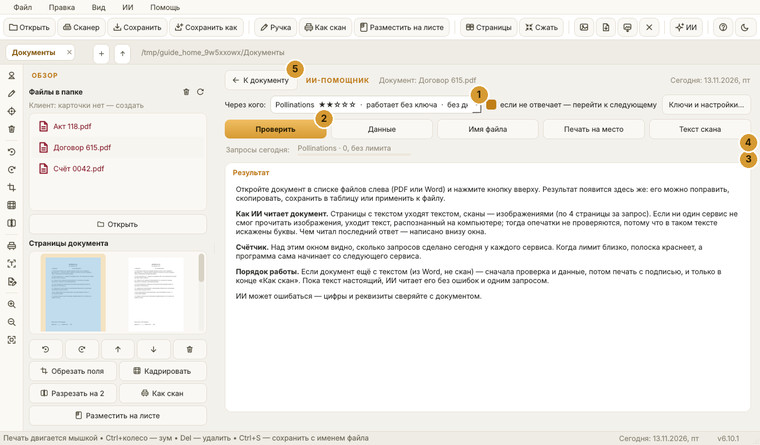
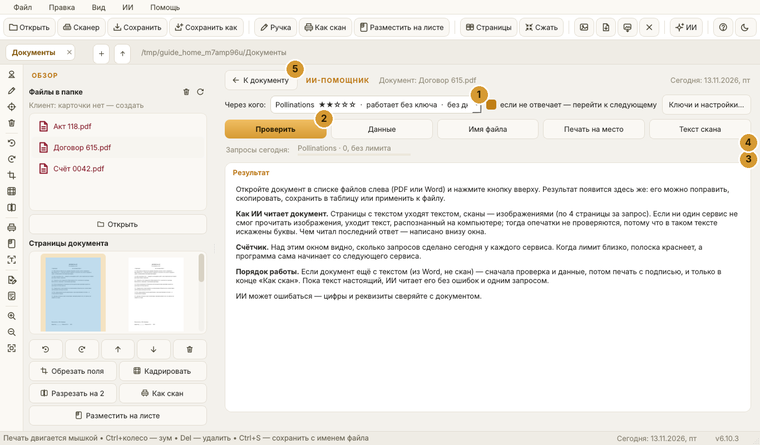
6.10.3: «Разместить на листе» и «Акт осмотра» в боковой полосе значков
Claude-Session: https://claude.ai/code/session_01S2yJaDiaX6YUxFfadFNC79

diff --git a/stamp_studio_canon.py b/stamp_studio_canon.py
@@ -410,12 +410,12 @@ QToolButton#ghost:pressed { background: rgba(214, 154, 51, 0.40); }
 QPushButton#aiact { text-align: left; padding: 6px 12px; }
 QDialog#embedded { background: transparent; }
 QToolBar#tools { background: #171a22; border: none; border-right: 1px solid #262b39; padding: 4px 5px; spacing: 2px; }
-QToolBar#tools QToolButton { min-width: 30px; max-width: 30px; min-height: 28px; max-height: 28px; padding: 0;
+QToolBar#tools QToolButton { min-width: 30px; max-width: 30px; min-height: 25px; max-height: 25px; padding: 0;
     background: transparent; border: 1px solid transparent; border-radius: 8px; }
 QToolBar#tools QToolButton:hover { background: #232735; border-color: #e8b04b; }
 QToolBar#tools QToolButton:checked { background: #3a321c; border-color: #e8b04b; }
 QToolBar#tools QToolButton:disabled { background: transparent; border-color: transparent; }
-QToolBar#tools::separator { background: #2a2f3d; height: 1px; margin: 3px 5px; }
+QToolBar#tools::separator { background: #2a2f3d; height: 1px; margin: 2px 5px; }
 QMenuBar { background: #171a22; border-bottom: 1px solid #262b39; padding: 1px 6px; }
 QMenuBar::item { background: transparent; padding: 4px 12px; border-radius: 6px; color: #c9cddb; }
 QMenuBar::item:selected, QMenuBar::item:pressed { background: #2c3145; color: #e8b04b; }
@@ -485,12 +485,12 @@ QToolButton#ghost:pressed { background: rgba(214, 154, 51, 0.40); }
 QPushButton#aiact { text-align: left; padding: 6px 12px; }
 QDialog#embedded { background: transparent; }
 QToolBar#tools { background: #fbf9f4; border: none; border-right: 1px solid #e6e1d6; padding: 4px 5px; spacing: 2px; }
-QToolBar#tools QToolButton { min-width: 30px; max-width: 30px; min-height: 28px; max-height: 28px; padding: 0;
+QToolBar#tools QToolButton { min-width: 30px; max-width: 30px; min-height: 25px; max-height: 25px; padding: 0;
     background: transparent; border: 1px solid transparent; border-radius: 8px; }
 QToolBar#tools QToolButton:hover { background: #ffffff; border-color: #d69a33; }
 QToolBar#tools QToolButton:checked { background: #fbefd3; border-color: #d69a33; }
 QToolBar#tools QToolButton:disabled { background: transparent; border-color: transparent; }
-QToolBar#tools::separator { background: #e6e1d6; height: 1px; margin: 3px 5px; }
+QToolBar#tools::separator { background: #e6e1d6; height: 1px; margin: 2px 5px; }
 QMenuBar { background: #fbf9f4; border-bottom: 1px solid #e6e1d6; padding: 1px 6px; }
 QMenuBar::item { background: transparent; padding: 4px 12px; border-radius: 6px; color: #4a4636; }
 QMenuBar::item:selected, QMenuBar::item:pressed { background: #f4e3c2; color: #6b4a00; }
@@ -528,7 +528,7 @@ QProgressBar::chunk { background: #d69a33; border-radius: 3px; }
 SETTINGS_JSON = os.path.join(LIB_DIR, "settings.json")
 
 # ---------------------------------------------------------------- версия и обновления
-APP_VERSION = "6.10.2"
+APP_VERSION = "6.10.3"
 EDITION = "canon"                 # main — основная, canon — для сканеров Canon
 APP_TITLE = "Stamp Studio" + (" Canon" if EDITION == "canon" else "")
 GITHUB_URL = "https://github.com/alegawhats-del/StampStudio"
@@ -10718,7 +10718,8 @@ class MainWindow(QMainWindow):
             [(self.act_place, "stamp"), (self.act_pen, "pen"), (self.act_ai_place, "aim"), (self.act_delete, "trash")],
             [(self.act_rot_l, "rot_left"), (self.act_rot_r, "rot_right"), (self.act_crop, "crop"),
              (self.act_frame, "frame"), (self.act_split, "split")],
-            [(self.act_scanlook, "scanlook"), (self.act_ai_ocr, "ocr"), (self.act_word, "word_edit")],
+            [(self.act_scanlook, "scanlook"), (self.act_sheet, "sheet"), (self.act_ai_ocr, "ocr")],
+            [(self.act_word, "word_edit"), (self.act_act, "act")],
             [(self.act_zoom_in, "zoom_in"), (self.act_zoom_out, "zoom_out"), (self.act_fit, "fit")],
         ]
         for n, group in enumerate(groups):

diff --git a/stamp_studio.py b/stamp_studio.py
@@ -410,12 +410,12 @@ QToolButton#ghost:pressed { background: rgba(214, 154, 51, 0.40); }
 QPushButton#aiact { text-align: left; padding: 6px 12px; }
 QDialog#embedded { background: transparent; }
 QToolBar#tools { background: #171a22; border: none; border-right: 1px solid #262b39; padding: 4px 5px; spacing: 2px; }
-QToolBar#tools QToolButton { min-width: 30px; max-width: 30px; min-height: 28px; max-height: 28px; padding: 0;
+QToolBar#tools QToolButton { min-width: 30px; max-width: 30px; min-height: 25px; max-height: 25px; padding: 0;
     background: transparent; border: 1px solid transparent; border-radius: 8px; }
 QToolBar#tools QToolButton:hover { background: #232735; border-color: #e8b04b; }
 QToolBar#tools QToolButton:checked { background: #3a321c; border-color: #e8b04b; }
 QToolBar#tools QToolButton:disabled { background: transparent; border-color: transparent; }
-QToolBar#tools::separator { background: #2a2f3d; height: 1px; margin: 3px 5px; }
+QToolBar#tools::separator { background: #2a2f3d; height: 1px; margin: 2px 5px; }
 QMenuBar { background: #171a22; border-bottom: 1px solid #262b39; padding: 1px 6px; }
 QMenuBar::item { background: transparent; padding: 4px 12px; border-radius: 6px; color: #c9cddb; }
 QMenuBar::item:selected, QMenuBar::item:pressed { background: #2c3145; color: #e8b04b; }
@@ -485,12 +485,12 @@ QToolButton#ghost:pressed { background: rgba(214, 154, 51, 0.40); }
 QPushButton#aiact { text-align: left; padding: 6px 12px; }
 QDialog#embedded { background: transparent; }
 QToolBar#tools { background: #fbf9f4; border: none; border-right: 1px solid #e6e1d6; padding: 4px 5px; spacing: 2px; }
-QToolBar#tools QToolButton { min-width: 30px; max-width: 30px; min-height: 28px; max-height: 28px; padding: 0;
+QToolBar#tools QToolButton { min-width: 30px; max-width: 30px; min-height: 25px; max-height: 25px; padding: 0;
     background: transparent; border: 1px solid transparent; border-radius: 8px; }
 QToolBar#tools QToolButton:hover { background: #ffffff; border-color: #d69a33; }
 QToolBar#tools QToolButton:checked { background: #fbefd3; border-color: #d69a33; }
 QToolBar#tools QToolButton:disabled { background: transparent; border-color: transparent; }
-QToolBar#tools::separator { background: #e6e1d6; height: 1px; margin: 3px 5px; }
+QToolBar#tools::separator { background: #e6e1d6; height: 1px; margin: 2px 5px; }
 QMenuBar { background: #fbf9f4; border-bottom: 1px solid #e6e1d6; padding: 1px 6px; }
 QMenuBar::item { background: transparent; padding: 4px 12px; border-radius: 6px; color: #4a4636; }
 QMenuBar::item:selected, QMenuBar::item:pressed { background: #f4e3c2; color: #6b4a00; }
@@ -528,7 +528,7 @@ QProgressBar::chunk { background: #d69a33; border-radius: 3px; }
 SETTINGS_JSON = os.path.join(LIB_DIR, "settings.json")
 
 # ---------------------------------------------------------------- версия и обновления
-APP_VERSION = "6.10.2"
+APP_VERSION = "6.10.3"
 EDITION = "main"                 # main — основная, canon — для сканеров Canon
 APP_TITLE = "Stamp Studio" + (" Canon" if EDITION == "canon" else "")
 GITHUB_URL = "https://github.com/alegawhats-del/StampStudio"
@@ -10719,7 +10719,8 @@ class MainWindow(QMainWindow):
             [(self.act_place, "stamp"), (self.act_pen, "pen"), (self.act_ai_place, "aim"), (self.act_delete, "trash")],
             [(self.act_rot_l, "rot_left"), (self.act_rot_r, "rot_right"), (self.act_crop, "crop"),
              (self.act_frame, "frame"), (self.act_split, "split")],
-            [(self.act_scanlook, "scanlook"), (self.act_ai_ocr, "ocr"), (self.act_word, "word_edit")],
+            [(self.act_scanlook, "scanlook"), (self.act_sheet, "sheet"), (self.act_ai_ocr, "ocr")],
+            [(self.act_word, "word_edit"), (self.act_act, "act")],
             [(self.act_zoom_in, "zoom_in"), (self.act_zoom_out, "zoom_out"), (self.act_fit, "fit")],
         ]
         for n, group in enumerate(groups):

diff --git a/tools/make_guide.py b/tools/make_guide.py
@@ -364,7 +364,7 @@ html = ("<h1>Сделать «как скан»</h1>"
         "Поэтому <b>сначала печать и подпись, потом «Как скан»</b> — они окажутся на бумаге и «отсканируются» вместе с листом.</p>"
         "<h2>Документ нестандартного размера — «Разместить на листе»</h2>"
         "<p>Свидетельство о регистрации, техпаспорт, чек — всё, что меньше листа. Откройте его снимок или скан "
-        "и нажмите <b>Разместить на листе</b> (слева под списком страниц или меню «Правка → Разместить на листе…»).</p>"
+        "и нажмите <b>Разместить на листе</b> (значок листа в боковой полосе, кнопка слева под списком страниц или меню «Правка → Разместить на листе…»).</p>"
         "<ol><li><b>Размер</b> — настоящий размер документа в миллиметрах. Галочка «Обрезать пустые поля» "
         "оставляет только сам документ, если он снят на однотонном фоне.</li>"
         "<li><b>Поворот</b> и <b>место</b>: кнопки «Влево / Вправо», отступы слева и сверху, готовые места "
@@ -801,7 +801,7 @@ html = ("<h1>Обновления и горячие клавиши</h1>"
 section("Акт осмотра автомобиля",
         "<h1>Акт осмотра автомобиля</h1>"
         "<p>Оригинал акта на немецком и перевод на русском заполняются из одних данных. "
-        "Открывается в меню <b>Файл → Акт осмотра…</b> (Ctrl+Shift+K) или кнопкой <b>Акт</b> под списком файлов.</p>"
+        "Открывается значком в боковой полосе, в меню <b>Файл → Акт осмотра…</b> (Ctrl+Shift+K) или кнопкой <b>Акт</b> под списком файлов.</p>"
         "<h2>Один раз: бланки и мастера</h2>"
         "<ol><li><b>Бланки</b> оригинала и перевода уже в программе, загружать ничего не нужно. "
         "Кнопка <b>Бланки…</b> — если бланк изменился: выберите два своих файла Word, программа заменит в них данные. "

diff --git a/NOTES.md b/NOTES.md
@@ -1,3 +1,4 @@
+• Боковая полоса значков: добавлены «Разместить на листе» и «Акт осмотра» — всё новое теперь есть и там
 • Акт осмотра: в словаре несколько вариантов перевода — привод (Frontantrieb / Vorderradantrieb, Heckantrieb / Hinterradantrieb, Allradantrieb / Allrad / 4x4), коробка (Automatik / Automatikgetriebe, Schaltgetriebe / Manuell), кузов (Crossover / SUV)
 • Акт осмотра: словарь значений пополняется сам — новая пара (вписали сами или перевёл ИИ) запоминается, появляется в списках и уходит в облако
 • Акт осмотра: бланки оригинала и перевода уже в программе — загружать их не нужно; кнопка «Бланки…» только для замены
